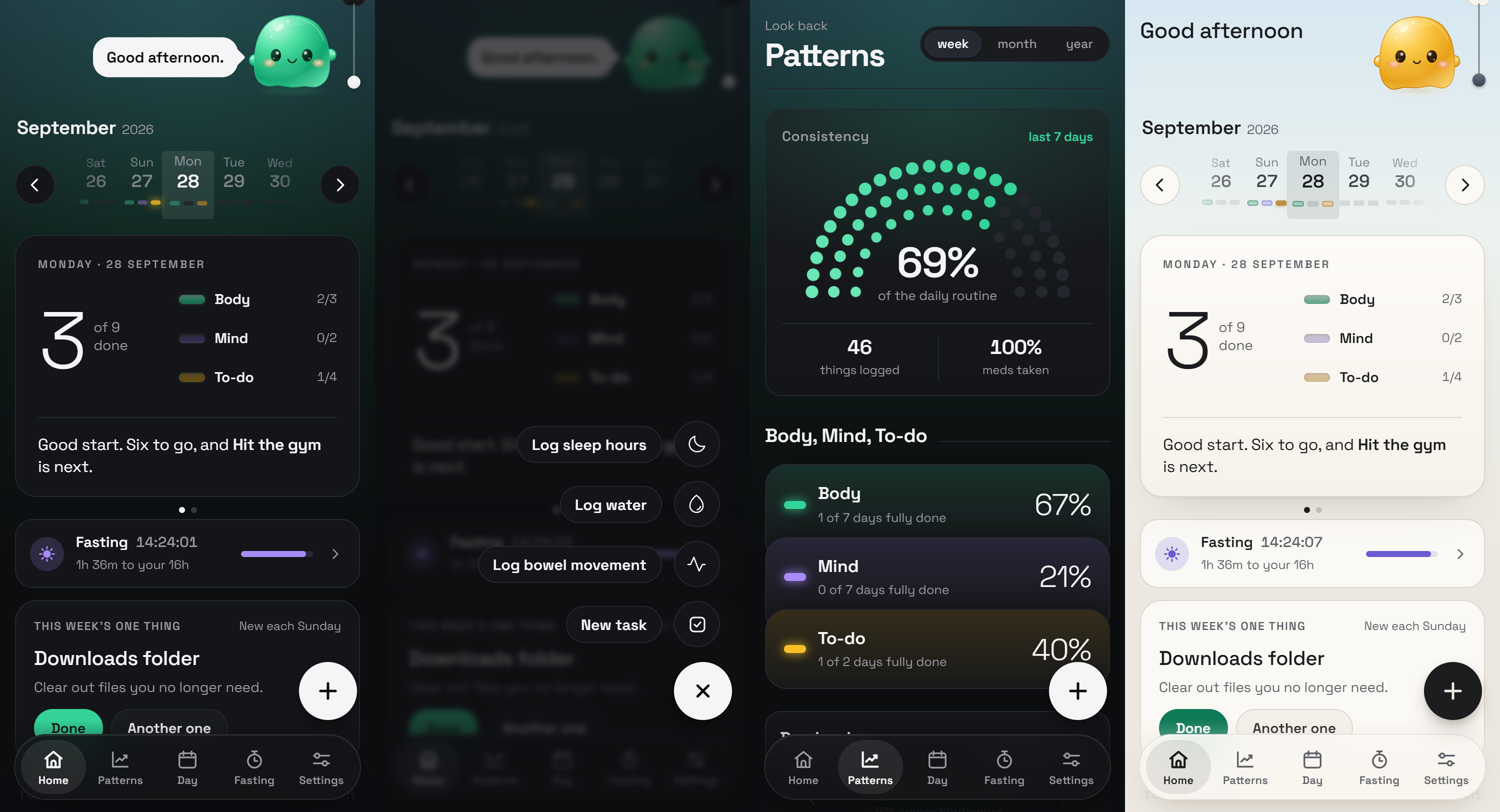
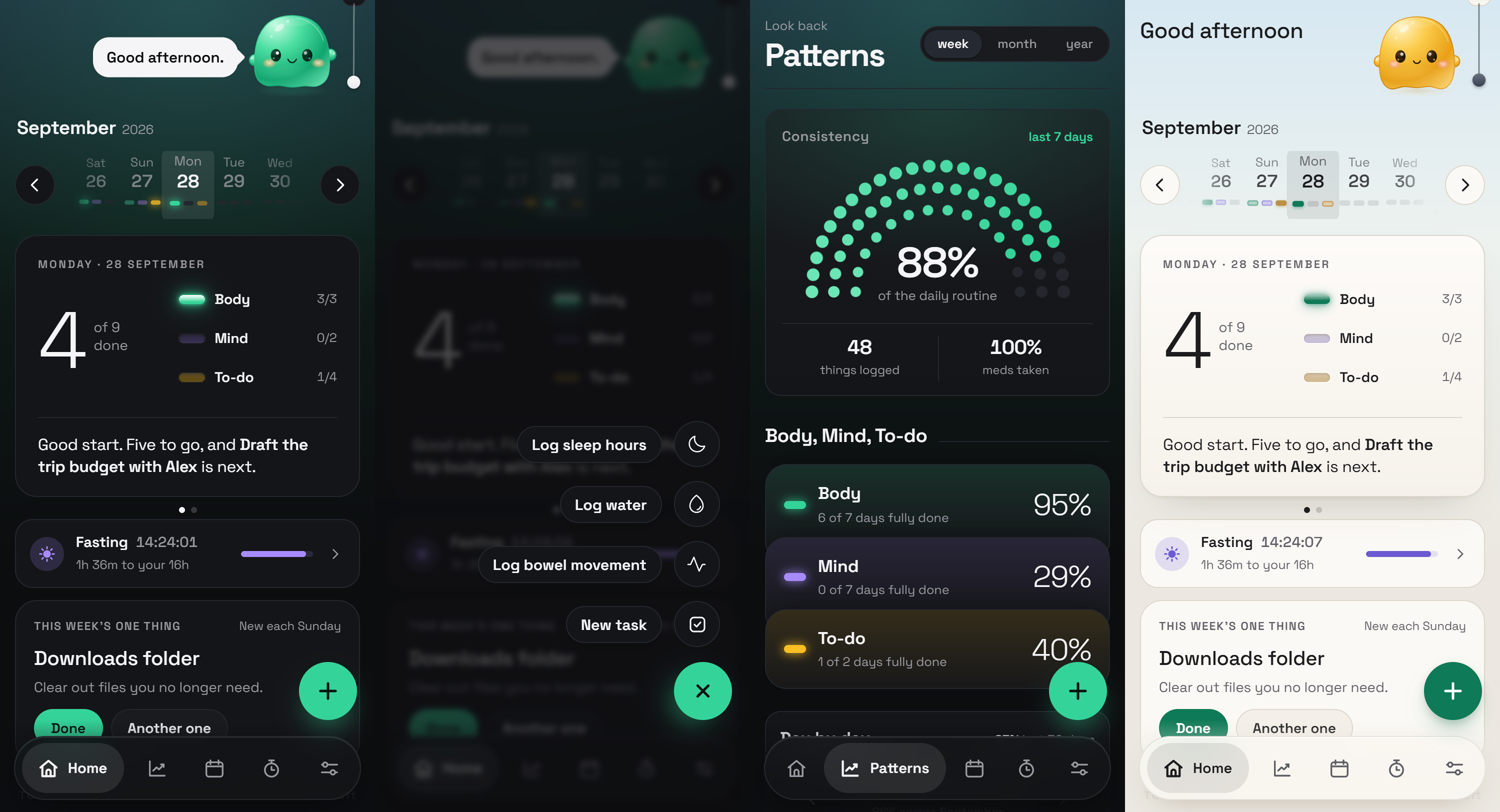
v5: menu shows only the open page's name; green floating +

diff --git a/index.html b/index.html
@@ -2014,21 +2014,23 @@
   @media(prefers-reduced-motion:reduce){.pk-c,.pk-body{transition:none}}
   /* ===== phones: floating pill menu and the floating + ===== */
   @media(max-width:820px){
-    .bottomnav.fnav{position:fixed;left:14px;right:14px;bottom:calc(12px + env(safe-area-inset-bottom));z-index:40;display:flex;align-items:center;gap:2px;height:66px;padding:0 6px;border-radius:999px;
+    .bottomnav.fnav{position:fixed;left:14px;right:14px;bottom:calc(12px + env(safe-area-inset-bottom));z-index:40;display:flex;align-items:center;justify-content:space-between;gap:2px;height:64px;padding:0 7px;border-radius:999px;
       background:color-mix(in srgb,var(--panel) 80%,transparent);-webkit-backdrop-filter:blur(22px) saturate(1.7);backdrop-filter:blur(22px) saturate(1.7);
       border:1px solid color-mix(in srgb,var(--ink) 9%,transparent);box-shadow:0 12px 32px -12px rgba(0,0,0,.5),inset 0 1px 0 color-mix(in srgb,#fff 8%,transparent);view-transition-name:gdock}
     :root[data-theme="warm"] .bottomnav.fnav{box-shadow:0 12px 30px -14px rgba(60,40,10,.28),inset 0 1px 0 rgba(255,255,255,.75)}
-    .fn-t{flex:1;min-width:0;height:54px;display:flex;flex-direction:column;align-items:center;justify-content:center;gap:4px;border:0;border-radius:999px;background:none;color:var(--muted);font:inherit;cursor:pointer;
-      transition:background-color .25s,color .25s;-webkit-tap-highlight-color:transparent}
+    .fn-t{flex:none;min-width:48px;height:50px;padding:0 12px;display:flex;align-items:center;justify-content:center;gap:0;border:0;border-radius:999px;background:none;color:var(--muted);font:inherit;cursor:pointer;
+      transition:background-color .3s,color .3s,padding .4s cubic-bezier(.32,.72,.24,1),gap .4s cubic-bezier(.32,.72,.24,1);-webkit-tap-highlight-color:transparent}
     .fn-t svg{width:23px;height:23px;fill:none;stroke:currentColor;stroke-width:1.8;stroke-linecap:round;stroke-linejoin:round}
-    .fn-t span{font-size:11px;font-weight:600;line-height:1;letter-spacing:.01em}
-    .fn-t.on{color:var(--ink);background:color-mix(in srgb,var(--ink) 9%,transparent)}
+    .fn-t span{max-width:0;overflow:hidden;white-space:nowrap;opacity:0;font-size:14.5px;font-weight:600;line-height:1;transition:max-width .4s cubic-bezier(.32,.72,.24,1),opacity .25s}
+    .fn-t.on{color:var(--ink);background:color-mix(in srgb,var(--ink) 10%,transparent);padding:0 17px 0 15px;gap:8px}
+    .fn-t.on span{max-width:92px;opacity:1}
+    @media(max-width:360px){.fn-t{min-width:44px;padding:0 10px}.fn-t.on{padding:0 13px 0 12px}}
     .fn-t.on svg{stroke-width:2.2}
     .bottomnav.fnav button:active{transform:scale(.94)}
     #fab.fab{display:grid!important;place-items:center;position:fixed;right:18px;bottom:calc(92px + env(safe-area-inset-bottom));z-index:42;width:58px;height:58px;border-radius:50%;border:0;
-      background:var(--ink)!important;color:var(--bg)!important;font-size:0;box-shadow:0 14px 28px -10px rgba(0,0,0,.55),0 3px 8px rgba(0,0,0,.2);
+      background:var(--accent)!important;color:var(--on-accent)!important;font-size:0;box-shadow:0 14px 28px -10px color-mix(in srgb,var(--accent) 65%,transparent),0 3px 8px rgba(0,0,0,.22);
       transition:transform .35s cubic-bezier(.32,.72,.24,1);-webkit-touch-callout:none;user-select:none;-webkit-user-select:none}
-    :root[data-theme="warm"] #fab.fab{box-shadow:0 14px 26px -12px rgba(30,20,5,.45),0 3px 8px rgba(30,20,5,.15)}
+    :root[data-theme="warm"] #fab.fab{box-shadow:0 14px 26px -12px color-mix(in srgb,var(--accent) 60%,transparent),0 3px 8px rgba(30,20,5,.15)}
     #fab.fab svg{width:26px;height:26px;fill:none;stroke:currentColor;stroke-width:2.3;stroke-linecap:round}
     #fab.fab:active{transform:scale(.93)}
     #fab.fab.open{transform:rotate(45deg)}

diff --git a/CLAUDE.md b/CLAUDE.md
@@ -8,7 +8,7 @@ Drop this file at the ROOT of your Ritsu git repo (same folder as `index.html`),
 
 **Latest (branch `v5`, the new Home):** Home is one card plus today's list. The card front: date, a big number (done of total), three small LED lights (Body green, Mind violet, To-do amber) that brighten as things get done and glow when an area is complete, and one kind sentence. Tapping a light filters the list to that area; tapping elsewhere turns the card. The back: this week in lights (three strips of seven LEDs), days fully lit, and the blob saying one line. When everything is done the card "switches on" (glow, "all done"). Trackers (body logs, limits, Body measures like water and sleep) are not counted and not listed; they live in the "Log or add" sheet behind the centre plus. Split bottom menu: Patterns, Home, plus, Day, Settings (user finds it a bit cheap: redesign later). One fasting row under the card opens in place into an arc with a live timer and a sun or moon; End fast asks save or discard. Patterns calendar is frosted glass month tiles. A soft top light follows the time of day. Date arrows move one day. Code: one plain block in index.html starting at `var DOW_LONG` (card: hmHeroHtml, qcBar, qcSay, qcBackWeek, qcTurn; Log or add: qcLogHtml; fasting row and arc: qfStrip, fastHomeCard, qfEndSheet; Patterns glass calendar: qcGlassCal); hmBody draws the card, list, fasting row and blob; isTracker(i) sits next to isLimit and dailyRoutine skips trackers, so the score, the card back and Patterns agree. The CSS is still layered (later v5 rules refine earlier ones, some !important); dead Home code (hmCardsHtml, hmArc, hmSpark, hmNextHtml, progressCard) can go later. Fasting page redesigned (viewFasting and the fp* helpers): live arc or a start panel, stage bar, range tabs 7d 30d 90d 1y All driving the stats, a "When you fast" weekday by hour heat grid, stages reached, records, recent fasts. No weight or fat estimates on purpose. Next agreed: tidy the merged mock code and fix dayScore, then the bottom navigation. sw.js cache `ritsu-v25`.
 
-**Since then (2026-09-28, v5, local commits):** audit fixes; the centre plus opens the add sheet with a small Log row for trackers; the Home list counts exactly what the card counts (medicine in its own not-counted group); three small lights under every day in the date strip (lzFill, lzLevels; solid deeper colours in light mode, glow in dark); a kind second line in the Undo bar for finished tasks (winLine, WIN_LINES); Settings > Light colours, five sets (LIGHT_SETS, data-lights on html, ritsu_lights; user will revisit the colours later; country-based colours were considered and dropped); a pale sky wash at the top that follows the time of day (--sky1/--sky2 on data-amb); This week's one thing on Home (WK1_LIB, ritsu_week1, new each Sunday, never counted, Show or Hide in Settings); Patterns has Body, Mind, To-do as a stack of cards that lift open (pkStack, pkCard, state.pkOpen). Vision board notes for 2026-09-28 are in docs/vision-board.md. Bottom menu (phones) rebuilt 2026-09-28: a floating pill with five labelled pages (Home, Patterns, Day, Fasting, Settings; renderNav gives #bottomnav the class fnav, buttons .fn-t) and a separate floating round + above it on the right like X (#fab, ink colour: white in dark, black in light). Tap + opens the add sheet; press and hold 420ms opens #fabMenu with one-tap logs for up to three trackers and New task. Pictures of the options tried: docs/mockups/nav-*.png. Next agreed: a fewer-boxes pass on Home (an outside review scored the app 8.1 and asked for fewer bordered surfaces, one type scale, a cleaner light theme, systematic details).
+**Since then (2026-09-28, v5, local commits):** audit fixes; the centre plus opens the add sheet with a small Log row for trackers; the Home list counts exactly what the card counts (medicine in its own not-counted group); three small lights under every day in the date strip (lzFill, lzLevels; solid deeper colours in light mode, glow in dark); a kind second line in the Undo bar for finished tasks (winLine, WIN_LINES); Settings > Light colours, five sets (LIGHT_SETS, data-lights on html, ritsu_lights; user will revisit the colours later; country-based colours were considered and dropped); a pale sky wash at the top that follows the time of day (--sky1/--sky2 on data-amb); This week's one thing on Home (WK1_LIB, ritsu_week1, new each Sunday, never counted, Show or Hide in Settings); Patterns has Body, Mind, To-do as a stack of cards that lift open (pkStack, pkCard, state.pkOpen). Vision board notes for 2026-09-28 are in docs/vision-board.md. Bottom menu (phones) rebuilt 2026-09-28: a floating pill with five pages where only the open one shows its name in a highlighted pill (Home, Patterns, Day, Fasting, Settings; renderNav gives #bottomnav the class fnav, buttons .fn-t) and a separate floating round + above it on the right like X (#fab, green accent). Tap + opens the add sheet; press and hold 420ms opens #fabMenu with one-tap logs for up to three trackers and New task. Pictures of the options tried: docs/mockups/nav-*.png. Next agreed: a fewer-boxes pass on Home (an outside review scored the app 8.1 and asked for fewer bordered surfaces, one type scale, a cleaner light theme, systematic details).
 
 **Latest (built, committed locally until the user says push):** "things that come back" and the one minute setup. Engine is one block in index.html starting `CB_LIB` (search "things that come back"): each thing is ONE live one-off To-do task carrying a `cb` object (`kind` visit or simple, `every` months, `rule` since or fixed, `stage` quiet or booked, `next`, `booked`, `at`, `snooze`, `last`); its own `dueDate` is the day it shows up, so every screen already handles it. Visit shape = Book it (2 weeks before due), Booked (typed like "friday 10am" through `cbBookSheet`), Did you go? (after the time, `cbMode` = went), Quiet again. Simple shape = Done, Quiet again. The companion asks one question at a time on Home (`cbAskHtml`, card under Up next) and rows on the Day list carry the same buttons (`cbRowExtra`); Later snoozes 3 days, never red. Welcome now says Set me up (`setupS`, `setupHtml`, `setupFinish`): step 2 habit tiles, step 3 six switches with one question each; Start empty and Restore stay as small links. Typing "renew passport every 2 years" makes one that comes back. Settings has a Things that come back panel (`cbPanel`). Not built: Full day pop-up, clash warning, the library word-to-tag suggestions, Default list Personal + starter tags, Get the results follow-up. sw.js cache `ritsu-v21`. **Before that:** Branch `v4` on GitHub, last commit `eceb171` (batch 1 wrong numbers and polish, batch 2 slimmer Home). Since `b80b0c9`: Home shows only today (cards say "N to go", tap turns over, tap again turns back, hold opens the list, "Open list" strip on the back); the calendar, insights and fasting card moved to Patterns (was Reports); areas, People and Fasting links moved to Settings; four-button menu with the plus beside it; Welcome has one primary choice. Design audit results and pictures: `docs/mockups/mock-home2.png`, `mock-setup.png`, `mock-comesback.png`, `mock-light-laptop.png`. NOT built yet from the plan: the 1-minute setup, tasks that come back (dentist), full-day pop-up, clash warning, Year view whole-year score, a working state on the Welcome buttons, vague Back/Save/Done labels and heading order. sw.js cache is `ritsu-v19`. Old line follows: Branch `v4` on GitHub, last commit `b80b0c9`. The live site still serves `v2`; `main`, `v2`, `v3` are untouched. v4 has: compact cards, pill nav, the companion blob, the pull cord, undoable deletes, the add sheet (Date, Time wheel, Priority, Repeat, Tags, Note, Length), and typing a sentence ("call alex tom at 5 in the evening"). This file and `docs/` exist only on the user's computer, not on GitHub.
 
